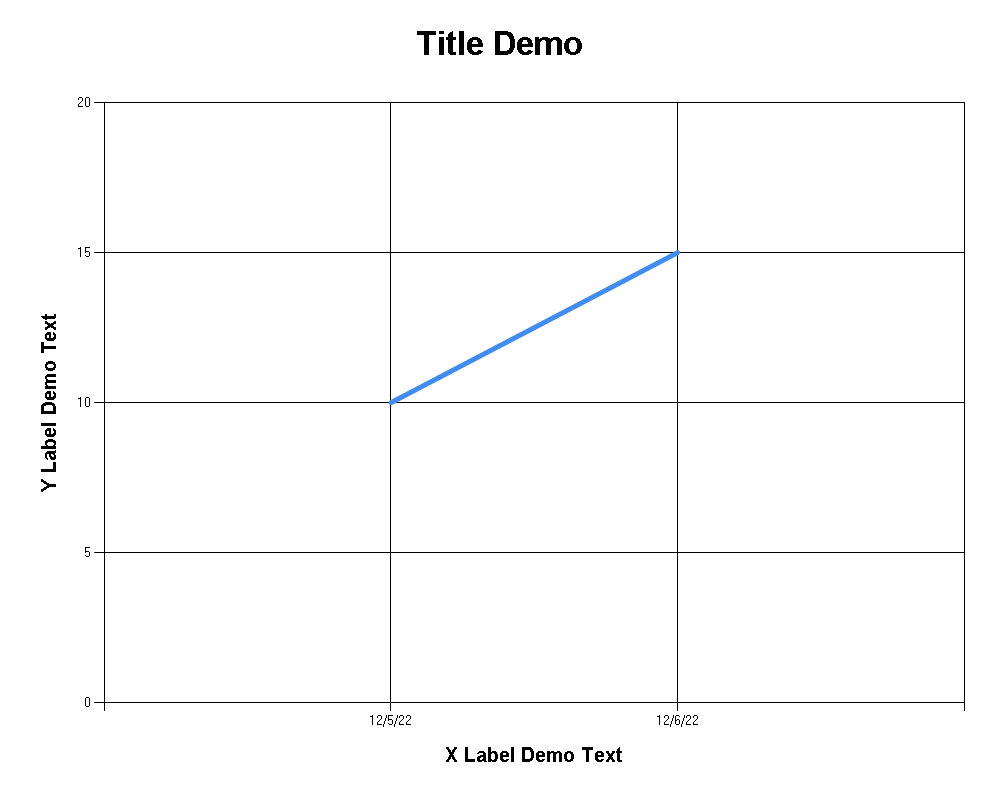
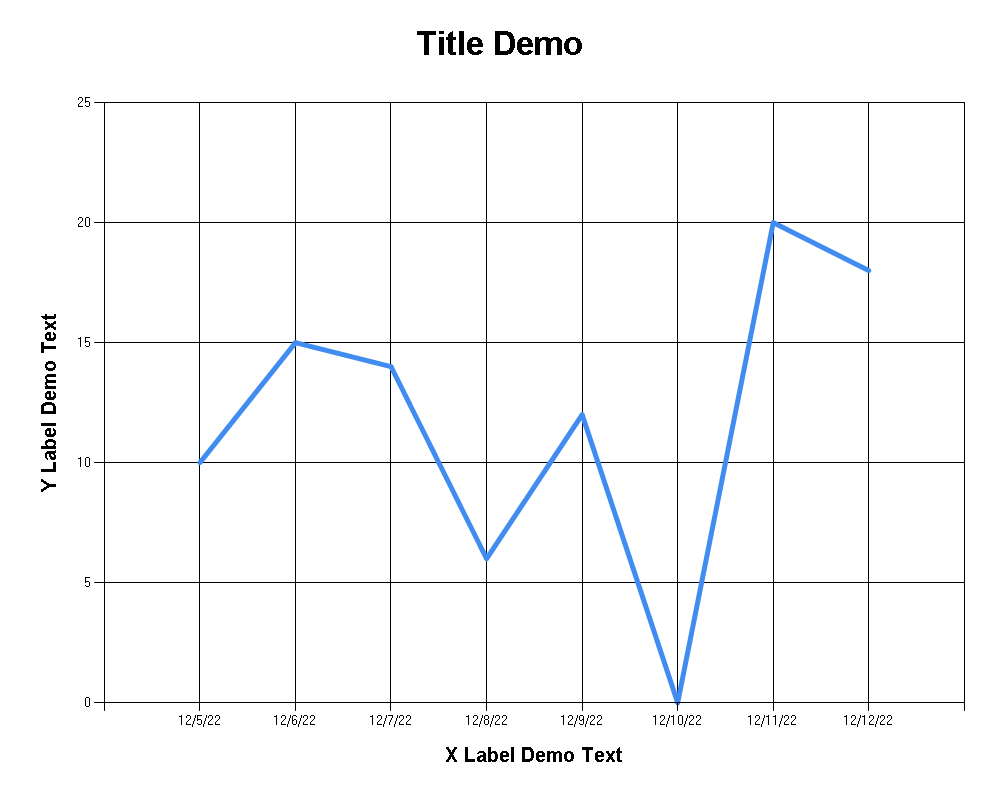
Add more data points, generated new chart image.

diff --git a/Practice_Chart/Form1.cs b/Practice_Chart/Form1.cs
@@ -42,6 +42,12 @@ namespace Practice_Chart
             // Create Data Points
             S1.Points.AddXY("12/5/22", 10);
             S1.Points.AddXY("12/6/22", 15);
+            S1.Points.AddXY("12/7/22", 14);
+            S1.Points.AddXY("12/8/22", 6);
+            S1.Points.AddXY("12/9/22", 12);
+            S1.Points.AddXY("12/10/22", 0);
+            S1.Points.AddXY("12/11/22", 20);
+            S1.Points.AddXY("12/12/22", 18);
 
             // Set the background colors
             chart.BackColor = Color.Transparent; // Set the background of the chart to transparent
